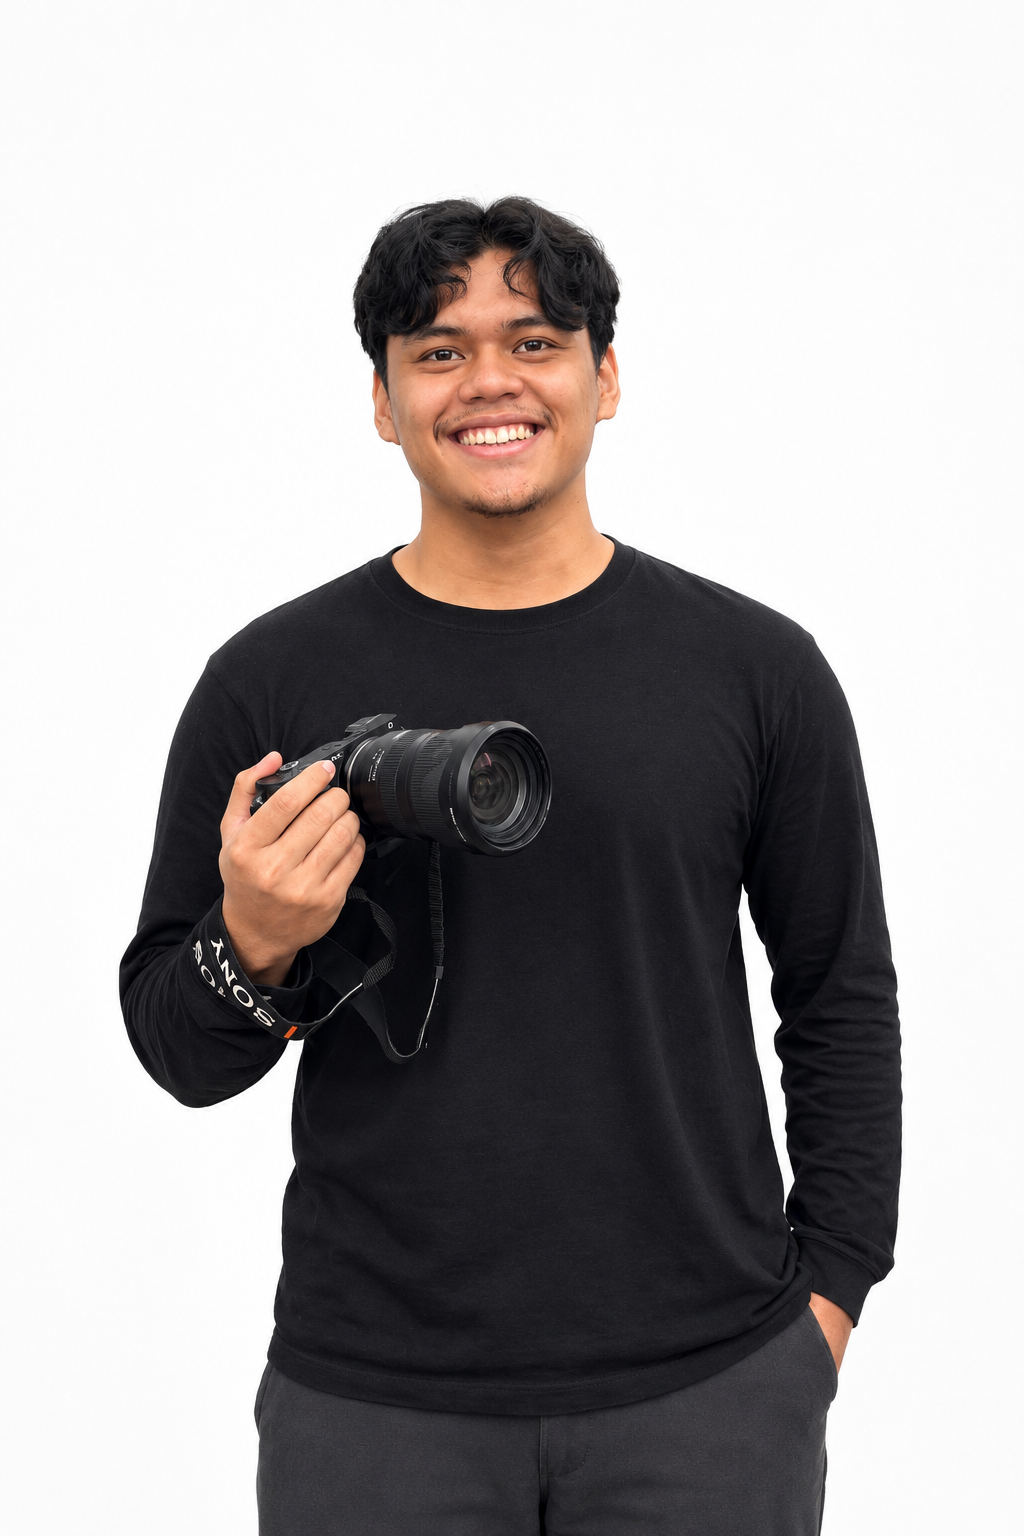
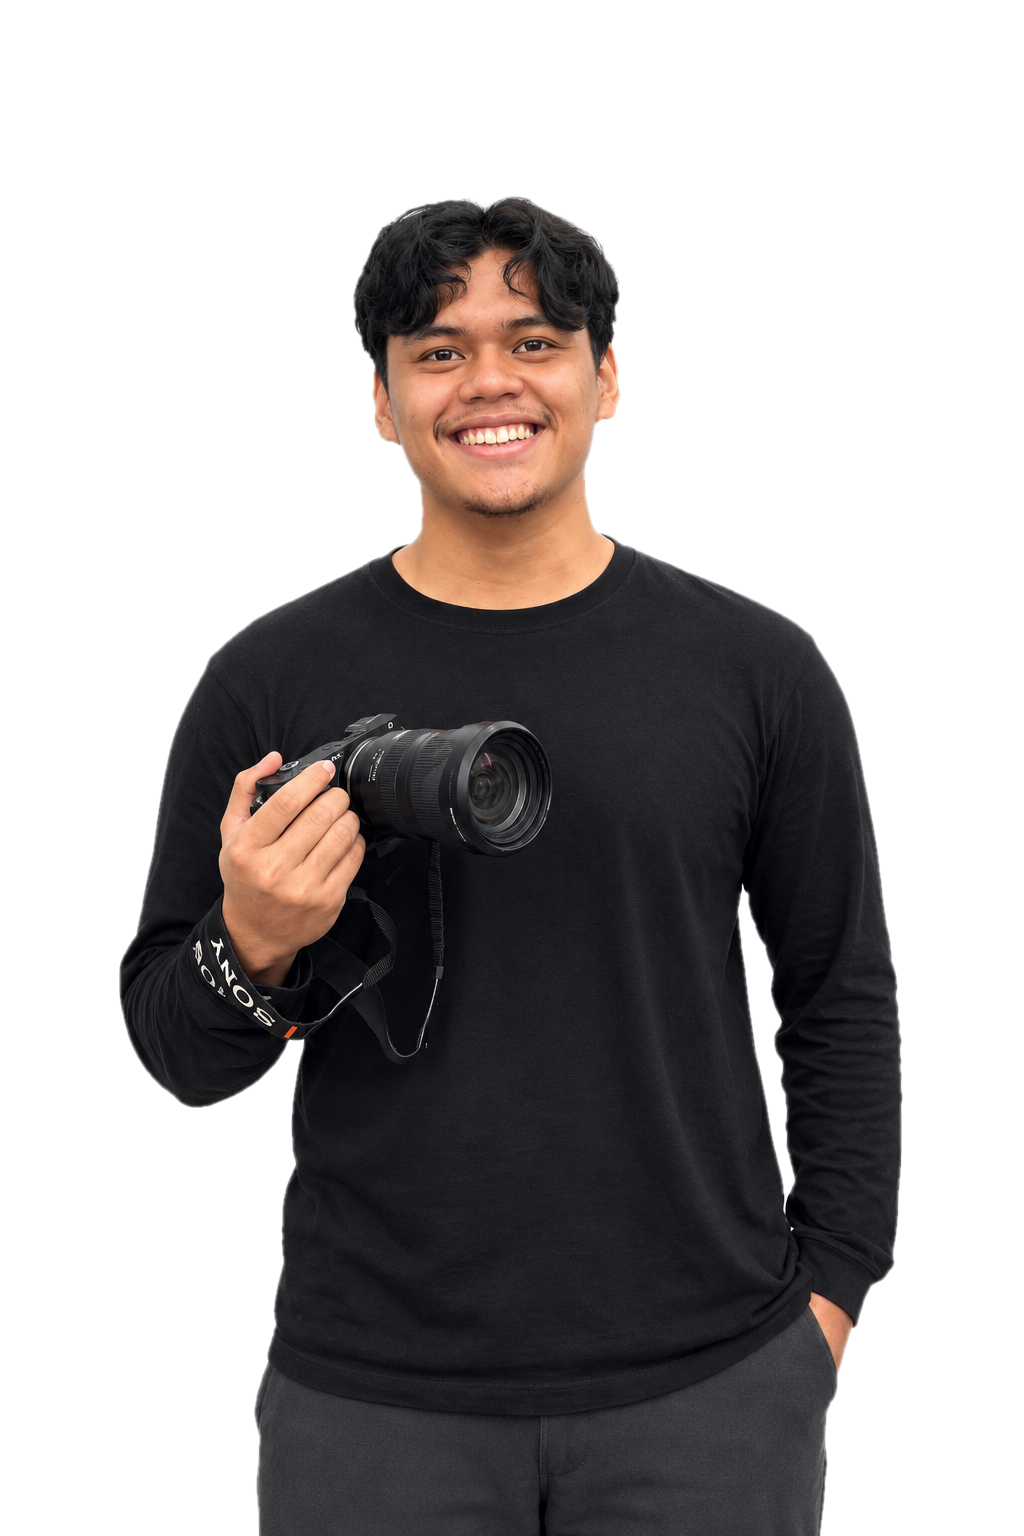
Remove profile photo background (transparent PNG)

diff --git a/app/globals.css b/app/globals.css
@@ -336,8 +336,6 @@ button {
 .hero-portrait .hero-media img {
   object-fit: contain;
   object-position: 72% center;
-  mix-blend-mode: multiply;
-  filter: brightness(1.06);
 }
 .hero-portrait::after {
   display: none;
@@ -998,10 +996,6 @@ button {
 }
 .portrait img {
   object-fit: cover;
-  /* Multiply turns the photo's white backdrop into the page colour;
-     the brightness lift pushes near-white to pure white first. */
-  mix-blend-mode: multiply;
-  filter: brightness(1.06);
 }
 .prose p + p {
   margin-top: 1.2em;
